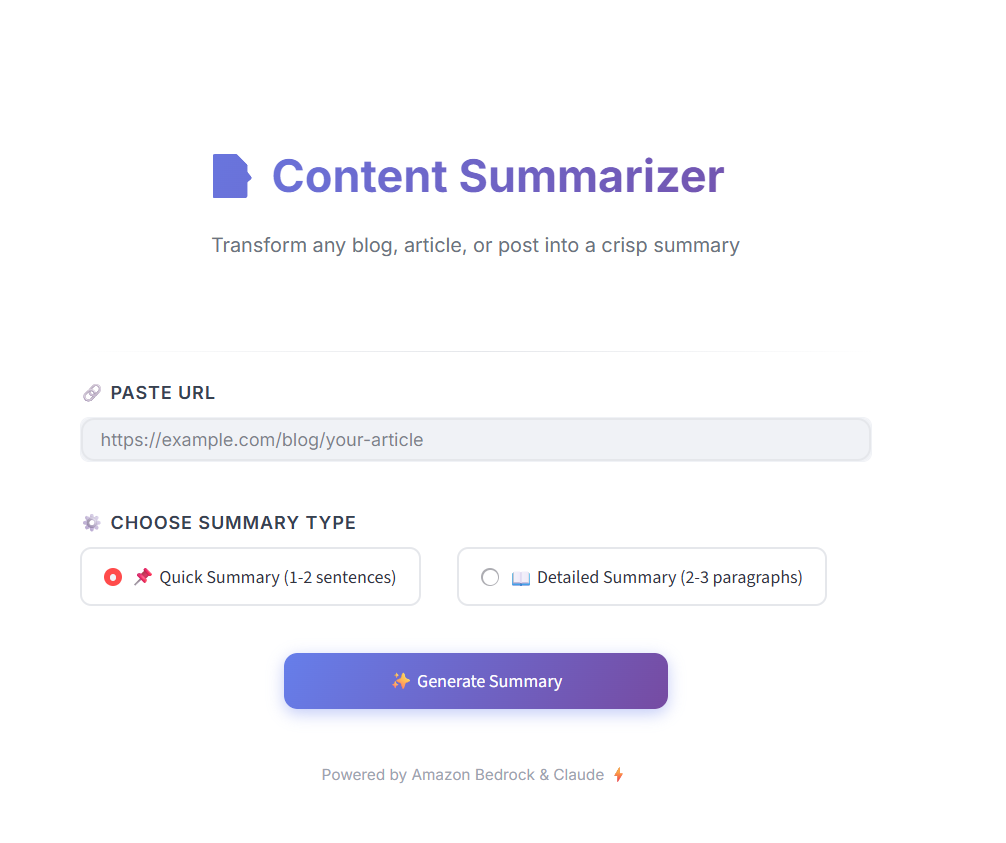
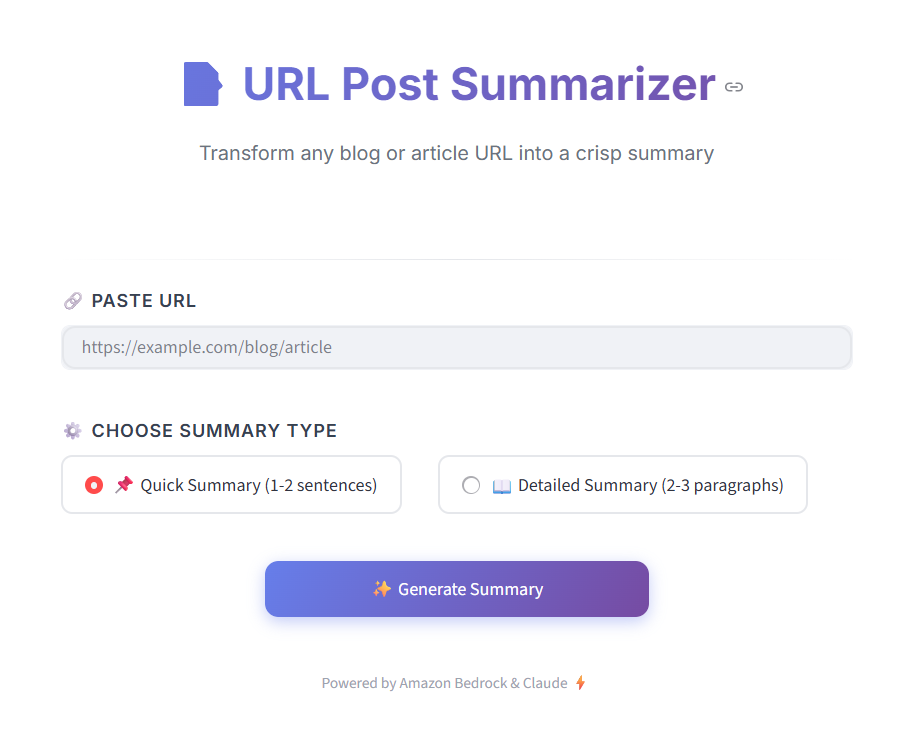
Updating the title of the app;

diff --git a/workshop1-content-summarizer/content_summarizer_app.py b/workshop1-content-summarizer/content_summarizer_app.py
@@ -7,7 +7,7 @@ from ui_components import (
     section_label, summary_card, error_card, preview_box
 )
 
-st.set_page_config(page_title="Content Summarizer", page_icon="📝", layout="centered")
+st.set_page_config(page_title="URL Post Summarizer", page_icon="📝", layout="centered")
 st.markdown(CSS, unsafe_allow_html=True)
 
 # Header

diff --git a/workshop1-content-summarizer/ui_components.py b/workshop1-content-summarizer/ui_components.py
@@ -2,8 +2,8 @@
 
 HEADER = """
 <div class="main-header">
-    <h1>📝 Content Summarizer</h1>
-    <p>Transform any blog, article, or post into a crisp summary</p>
+    <h1>📝 URL Post Summarizer</h1>
+    <p>Transform any blog or article URL into a crisp summary</p>
 </div>
 """
 

diff --git a/workshop1-content-summarizer/article.md b/workshop1-content-summarizer/article.md
@@ -1,0 +1,303 @@
+# Build a URL Post Summarizer Using Amazon Bedrock and Streamlit
+
+**Level**: Intermediate  
+**Time to complete**: 30 minutes  
+**Services used**: Amazon Bedrock, Claude 3.5 Sonnet
+
+---
+
+## Overview
+
+In this tutorial, you'll build a web application that summarizes content from any public URL using Amazon Bedrock and Claude 3.5 Sonnet. The app extracts text from blog posts, articles, and web pages, then generates AI-powered summaries in two formats: a quick 1-2 sentence overview or a detailed multi-paragraph breakdown.
+
+By the end of this tutorial, you'll have a working Streamlit application that demonstrates how to integrate Amazon Bedrock's Converse API for text summarization use cases.
+
+---
+
+## Prerequisites
+
+Before you begin, ensure you have:
+
+- An AWS account with Amazon Bedrock access enabled
+- Claude 3.5 Sonnet model access in your AWS region
+- Python 3.8+ installed
+- AWS CLI configured with appropriate credentials
+- Basic familiarity with Python and Streamlit
+
+---
+
+## What You'll Build
+
+A URL post summarizer application with the following features:
+
+- URL input for any public webpage
+- Two summarization modes (quick and detailed)
+- Clean, modern web interface
+- Content preview functionality
+
+![Application Interface](screenshots/request.png)
+
+---
+
+## Architecture
+
+The application follows a simple three-tier architecture:
+
+```
+User Browser → Streamlit App → Target Website
+                    ↓
+              Amazon Bedrock
+              (Claude 3.5 Sonnet)
+```
+
+1. **User inputs a URL** through the Streamlit interface
+2. **Content extraction** fetches and parses the webpage using BeautifulSoup
+3. **AI summarization** sends the content to Amazon Bedrock
+4. **Results display** shows the generated summary to the user
+
+---
+
+## Step 1: Set Up Your Project
+
+Create a new directory and install the required dependencies:
+
+```bash
+mkdir content-summarizer
+cd content-summarizer
+```
+
+Create a `requirements.txt` file:
+
+```
+streamlit
+boto3
+botocore
+requests
+beautifulsoup4
+```
+
+Install the dependencies:
+
+```bash
+pip install -r requirements.txt
+```
+
+---
+
+## Step 2: Build the Content Extraction Module
+
+Create `content_summarizer_lib.py` to handle URL fetching and AI summarization:
+
+```python
+import boto3
+import requests
+from bs4 import BeautifulSoup
+import re
+
+HEADERS = {
+    'User-Agent': 'Mozilla/5.0 (Windows NT 10.0; Win64; x64) AppleWebKit/537.36'
+}
+
+CONTENT_SELECTORS = [
+    'article', '[role="main"]', '.post-content', '.article-content',
+    '.entry-content', '.content', 'main', '.blog-post', '.post-body'
+]
+
+
+def fetch_content(url):
+    """Fetch and extract text content from a URL"""
+    resp = requests.get(url, headers=HEADERS, timeout=15)
+    resp.raise_for_status()
+    
+    soup = BeautifulSoup(resp.content, 'html.parser')
+    
+    # Remove non-content elements
+    for tag in soup(['script', 'style', 'nav', 'footer', 'header', 'aside']):
+        tag.decompose()
+    
+    # Find main content using common selectors
+    content = None
+    for selector in CONTENT_SELECTORS:
+        content = soup.select_one(selector)
+        if content:
+            break
+    
+    if not content:
+        content = soup.body or soup
+    
+    text = content.get_text(separator='\n', strip=True)
+    text = re.sub(r'\n\s*\n', '\n\n', text)
+    
+    # Truncate if too long for model context
+    if len(text) > 15000:
+        text = text[:15000] + "..."
+    
+    return text
+```
+
+The `fetch_content` function:
+- Fetches the webpage with a browser-like User-Agent
+- Removes scripts, styles, and navigation elements
+- Uses common CSS selectors to find the main content area
+- Cleans up whitespace and truncates long content
+
+---
+
+## Step 3: Integrate Amazon Bedrock
+
+Add the summarization function to `content_summarizer_lib.py`:
+
+```python
+def get_summary(content, summary_type):
+    """Generate summary using Amazon Bedrock"""
+    if summary_type == "one_line":
+        prompt = f"Give a 1-2 sentence summary of this:\n\n{content}"
+    else:
+        prompt = f"Summarize this in 2-3 paragraphs, covering the main points:\n\n{content}"
+
+    bedrock = boto3.Session().client('bedrock-runtime')
+    
+    response = bedrock.converse(
+        modelId="us.anthropic.claude-3-7-sonnet-20250219-v1:0",
+        messages=[{"role": "user", "content": [{"text": prompt}]}],
+        inferenceConfig={"maxTokens": 1000, "temperature": 0.3}
+    )
+    
+    return response['output']['message']['content'][0]['text']
+
+
+def summarize_url(url, summary_type):
+    """Main function - fetch URL and return summary"""
+    content = fetch_content(url)
+    summary = get_summary(content, summary_type)
+    preview = content[:500] + "..." if len(content) > 500 else content
+    
+    return {"summary": summary, "content_preview": preview}
+```
+
+Key points about the Bedrock integration:
+- Uses the **Converse API** for simplified model interaction
+- Sets `temperature: 0.3` for consistent, focused outputs
+- Limits `maxTokens: 1000` to control response length
+
+---
+
+## Step 4: Create the Streamlit Interface
+
+Create `content_summarizer_app.py`:
+
+```python
+import streamlit as st
+import requests
+import content_summarizer_lib as glib
+
+st.set_page_config(page_title="URL Post Summarizer", page_icon="📝", layout="centered")
+
+st.title("📝 URL Post Summarizer")
+st.write("Transform any blog, article, or post into a crisp summary")
+
+# URL input
+url = st.text_input("Paste URL", placeholder="https://example.com/blog/article")
+
+# Summary type selection
+summary_type = st.radio(
+    "Choose Summary Type",
+    ["one_line", "detailed"],
+    format_func=lambda x: "📌 Quick Summary (1-2 sentences)" if x == "one_line" 
+                          else "📖 Detailed Summary (2-3 paragraphs)",
+    horizontal=True
+)
+
+# Generate button
+if st.button("✨ Generate Summary", type="primary"):
+    if not url or not url.startswith(('http://', 'https://')):
+        st.error("Please enter a valid URL starting with http:// or https://")
+    else:
+        with st.spinner("Fetching and summarizing..."):
+            try:
+                result = glib.summarize_url(url, summary_type)
+                st.success("Summary generated!")
+                st.write(result['summary'])
+                
+                with st.expander("View extracted content"):
+                    st.write(result['content_preview'])
+                    
+            except requests.exceptions.RequestException as e:
+                st.error(f"Failed to fetch URL: {e}")
+            except Exception as e:
+                st.error(f"Error: {e}")
+```
+
+---
+
+## Step 5: Configure IAM Permissions
+
+Ensure your AWS credentials have the following permissions:
+
+```json
+{
+    "Version": "2012-10-17",
+    "Statement": [
+        {
+            "Effect": "Allow",
+            "Action": [
+                "bedrock:InvokeModel",
+                "bedrock:Converse"
+            ],
+            "Resource": "*"
+        }
+    ]
+}
+```
+
+---
+
+## Step 6: Run the Application
+
+Start the Streamlit app:
+
+```bash
+streamlit run content_summarizer_app.py
+```
+
+Open your browser to `http://localhost:8501` and test with any public article URL.
+
+![Summary Results](screenshots/result1.png)
+
+---
+
+## How It Works
+
+1. **URL Submission**: User pastes a blog or article URL
+2. **Content Extraction**: BeautifulSoup parses the HTML and extracts the main text content, removing navigation, ads, and scripts
+3. **Prompt Construction**: Based on the selected summary type, a specific prompt is built
+4. **Bedrock Inference**: The content and prompt are sent to Claude 3.5 Sonnet via the Converse API
+5. **Result Display**: The generated summary is shown to the user
+
+---
+
+## Conclusion
+
+You've built a functional URL post summarizer using Amazon Bedrock and Streamlit. This pattern can be extended for various use cases:
+
+- **Research assistants** that summarize academic papers
+- **News aggregators** with AI-generated briefs
+- **Content curation tools** for newsletters
+- **Competitive analysis** applications
+
+The Amazon Bedrock Converse API simplifies integration with foundation models, making it easy to add AI capabilities to your applications.
+
+---
+
+## Resources
+
+- [Amazon Bedrock Documentation](https://docs.aws.amazon.com/bedrock/)
+- [Bedrock Converse API Reference](https://docs.aws.amazon.com/bedrock/latest/APIReference/API_runtime_Converse.html)
+- [Streamlit Documentation](https://docs.streamlit.io/)
+- [Source Code on GitHub](https://github.com/aakarshsak/ai-for-bharat/tree/master/workshop1-content-summarizer)
+
+---
+
+## Clean Up
+
+To avoid ongoing charges, stop the Streamlit application when you're done testing. Amazon Bedrock charges are based on usage, so no additional cleanup is required for the AI service.

diff --git a/workshop1-content-summarizer/README.md b/workshop1-content-summarizer/README.md
@@ -1,6 +1,6 @@
-# 📝 Content Summarizer
+# 📝 URL Post Summarizer
 
-An AI-powered web application that transforms any blog post, article, or online content into concise summaries using Amazon Bedrock and Claude.
+An AI-powered web application that summarizes any blog post or article from a URL using Amazon Bedrock and Claude.
 
 ---
 
@@ -14,7 +14,7 @@ In today's information-rich digital landscape, professionals, researchers, and s
 - **Knowledge Curation**: Summarizing content manually for notes or sharing is tedious
 
 ### The Solution
-**Content Summarizer** is a web application that:
+**URL Post Summarizer** is a web application that:
 - Takes any public URL (blog post, article, news piece)
 - Automatically extracts the main content from the webpage
 - Uses AI to generate intelligent summaries in two formats:
@@ -157,7 +157,7 @@ The clean, modern UI allows users to:
 - Choose between quick or detailed summaries
 - Generate AI-powered summaries with one click
 
-![Content Summarizer Main Interface](screenshots/request.png)
+![URL Post Summarizer Main Interface](screenshots/request.png)
 
 #### Summary Result
 
@@ -292,7 +292,7 @@ import content_summarizer_lib as glib
 from styles import CSS
 from ui_components import HEADER, DIVIDER, FOOTER, section_label, summary_card, error_card
 
-st.set_page_config(page_title="Content Summarizer", page_icon="📝", layout="centered")
+st.set_page_config(page_title="URL Post Summarizer", page_icon="📝", layout="centered")
 st.markdown(CSS, unsafe_allow_html=True)
 
 # URL input
